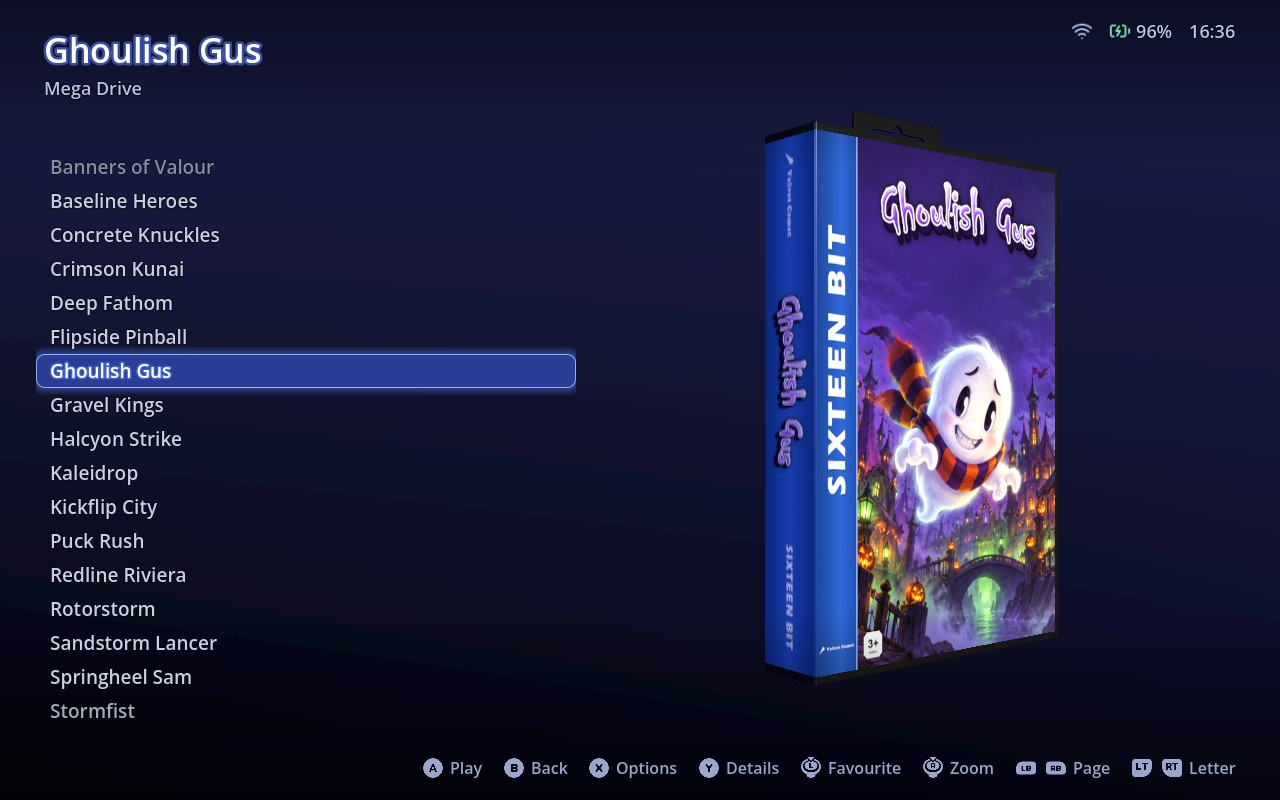
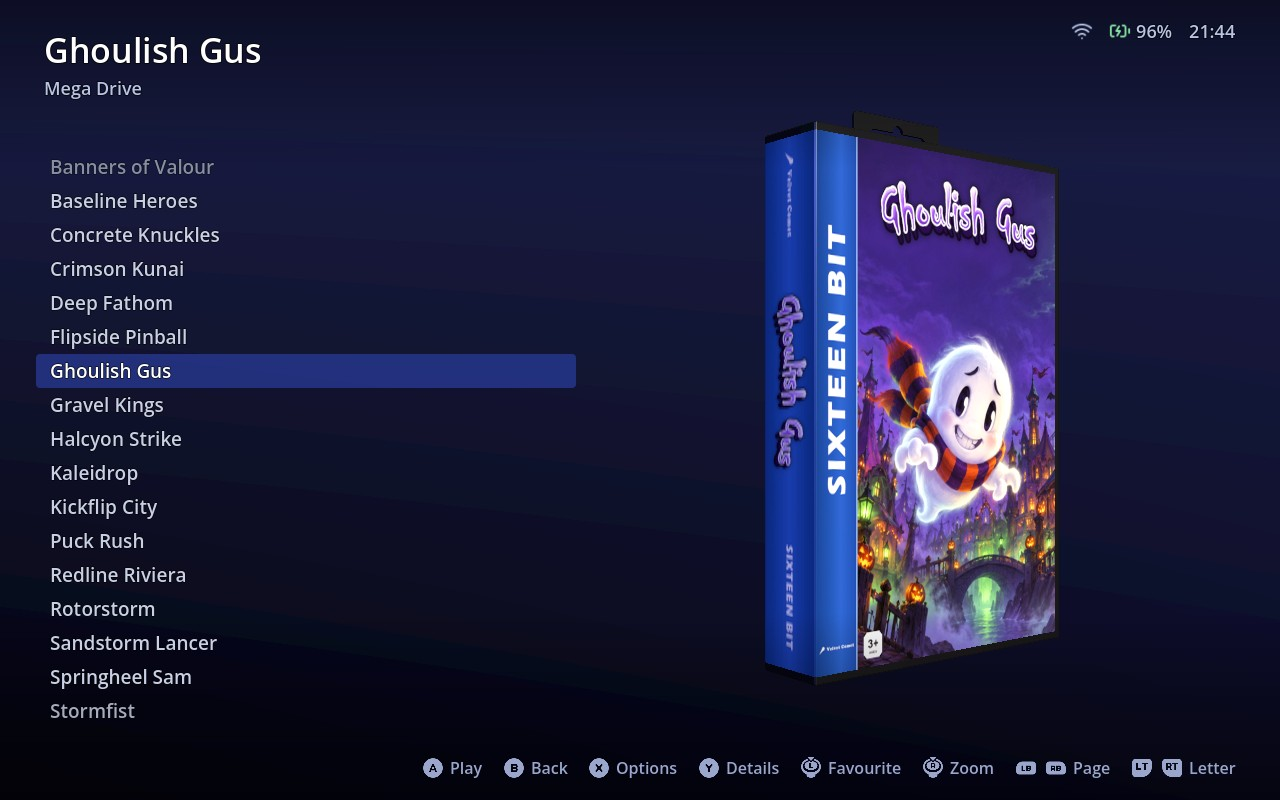
Menus without outlines, glows or capitals
The focused row is a flat fill with white text; panels have no border or
shadow; titles have no glow; section headings are in sentence case in the
dim colour. Over the grids, the heading and the centre message have a dark
shadow, the list layout's highlight is a flat fill and the showcase's
screenshot frame has no border. Colours are unchanged. README captures
recorded again.

Changed region(s): [[0.0312, 0.4375, 0.4688, 0.5], [0.0312, 0.0312, 0.2188, 0.0938], [0.9375, 0.0312, 0.9688, 0.0625]]

diff --git a/godot/src/Ui/UiStyle.cs b/godot/src/Ui/UiStyle.cs
@@ -9,9 +9,9 @@ using Theme = Godot.Theme;
 namespace Launcher.App.Ui;
 
 /// <summary>
-/// The menus' look (M7), built in code: translucent panels over the dimmed grid, rows that light up with a soft glow
-/// when focused, as the PS2 browser's text does. Sizes are at the project's base resolution (1280×800), which the
-/// canvas stretches, so they're native at 4K.
+/// The menus' look (M7), built in code: translucent panels over the dimmed grid, and a flat fill behind the focused row.
+/// No outlines, glows or capitals (decisions log, 2026-11-10: they read as a stock template). Sizes are at the
+/// project's base resolution (1280×800), which the canvas stretches, so they're native at 4K.
 /// <para>
 /// The colours and the font are the active theme's (A6 Menus, <see cref="MenuPalette"/>): the launcher's own deep blue
 /// unless the theme sets its own. <see cref="Apply"/> switches them in place: the shared style boxes and label settings
@@ -65,11 +65,8 @@ public static class UiStyle
     /// <summary>Notes, placeholders and what's off.</summary>
     public static Color Faint => Colour(MenuRole.Faint);
 
-    /// <summary>The focus's border, section headings and values.</summary>
+    /// <summary>Values and row actions ("Change", "Open"), and a text field's caret.</summary>
     public static Color Accent => Colour(MenuRole.Accent);
-
-    /// <summary>The glow around a heading.</summary>
-    public static Color Glow => Colour(MenuRole.Glow);
 
     public static Color PanelColour => Colour(MenuRole.Panel);
 
@@ -86,7 +83,7 @@ public static class UiStyle
         _ => 1,
     };
 
-    public static LabelSettings Title { get; } = Keep(new LabelSettings { FontSize = TitleSize, FontColor = Text, ShadowColor = Glow, ShadowSize = 10, ShadowOffset = Vector2.Zero });
+    public static LabelSettings Title { get; } = Keep(new LabelSettings { FontSize = TitleSize, FontColor = Text });
 
     public static LabelSettings Subtitle { get; } = Keep(new LabelSettings { FontSize = DetailSize, FontColor = Dim });
 
@@ -96,13 +93,13 @@ public static class UiStyle
 
     public static LabelSettings Detail { get; } = Keep(new LabelSettings { FontSize = DetailSize, FontColor = Dim });
 
-    public static LabelSettings Section { get; } = Keep(new LabelSettings { FontSize = HintSize, FontColor = Accent });
+    public static LabelSettings Section { get; } = Keep(new LabelSettings { FontSize = DetailSize, FontColor = Dim });
 
-    public static StyleBoxFlat Focused { get; } = Keep(RowBox(Colour(MenuRole.RowFocus), Accent, 2, 10));
+    public static StyleBoxFlat Focused { get; } = Keep(RowBox(Colour(MenuRole.RowFocus)));
 
     public static StyleBoxFlat Hovered { get; } = Keep(RowBox(Colour(MenuRole.RowHover)));
 
-    public static StyleBoxFlat Plain { get; } = Keep(RowBox(Colour(MenuRole.RowPlain)));
+    public static StyleBoxFlat Plain { get; } = Keep(RowBox(Colors.Transparent));
 
     /// <summary>One colour of the palette in use.</summary>
     public static Color Colour(MenuRole role) => _colours[(int)role];
@@ -111,28 +108,22 @@ public static class UiStyle
     public static Color Colour(Rgba colour) => new(colour.R, colour.G, colour.B, colour.A);
 
     /// <summary>A panel's frame: a new box each time, so its caller can change its margins.</summary>
-    public static StyleBoxFlat PanelBox(float radius = 16) => new()
+    public static StyleBoxFlat PanelBox(float radius = 6) => new()
     {
         BgColor = PanelColour,
-        BorderColor = Colour(MenuRole.PanelBorder),
-        BorderWidthLeft = 1,
-        BorderWidthRight = 1,
-        BorderWidthTop = 1,
-        BorderWidthBottom = 1,
         CornerRadiusTopLeft = (int)radius,
         CornerRadiusTopRight = (int)radius,
         CornerRadiusBottomLeft = (int)radius,
         CornerRadiusBottomRight = (int)radius,
         ShadowColor = Colour(MenuRole.PanelShadow),
-        ShadowSize = 24,
         ContentMarginLeft = 28,
         ContentMarginRight = 28,
         ContentMarginTop = 22,
         ContentMarginBottom = 18,
     };
 
-    /// <summary>A row's box in one state: transparent, hovered, focused (glowing) or pressed.</summary>
-    public static StyleBoxFlat RowBox(Color background, Color border = default, int borderWidth = 0, int glow = 0) => new()
+    /// <summary>A row's box in one state: transparent, hovered, focused or pressed. Only a text field has a border.</summary>
+    public static StyleBoxFlat RowBox(Color background, Color border = default, int borderWidth = 0) => new()
     {
         BgColor = background,
         BorderColor = border,
@@ -140,12 +131,10 @@ public static class UiStyle
         BorderWidthRight = borderWidth,
         BorderWidthTop = borderWidth,
         BorderWidthBottom = borderWidth,
-        CornerRadiusTopLeft = 8,
-        CornerRadiusTopRight = 8,
-        CornerRadiusBottomLeft = 8,
-        CornerRadiusBottomRight = 8,
-        ShadowColor = glow > 0 ? Colour(MenuRole.FocusGlow) : Colors.Transparent,
-        ShadowSize = glow,
+        CornerRadiusTopLeft = 4,
+        CornerRadiusTopRight = 4,
+        CornerRadiusBottomLeft = 4,
+        CornerRadiusBottomRight = 4,
         ContentMarginLeft = 16,
         ContentMarginRight = 16,
         ContentMarginTop = 8,
@@ -153,7 +142,7 @@ public static class UiStyle
     };
 
     /// <summary>A frame around a picture (a thumbnail, a cover): a new box each time.</summary>
-    public static StyleBoxFlat FrameBox() => RowBox(Colour(MenuRole.Frame), Colour(MenuRole.FrameBorder), 1);
+    public static StyleBoxFlat FrameBox() => RowBox(Colour(MenuRole.Frame));
 
     /// <summary>
     /// Keeps <paramref name="resource"/> (a <see cref="LabelSettings"/> or <see cref="StyleBoxFlat"/> made from this
@@ -266,7 +255,7 @@ public static class UiStyle
             {
                 theme.SetStylebox("normal", type, Plain);
                 theme.SetStylebox("hover", type, Hovered);
-                var pressed = Keep(RowBox(Colour(MenuRole.RowPressed), Accent, 2, 6));
+                var pressed = Keep(RowBox(Colour(MenuRole.RowPressed)));
                 theme.SetStylebox("pressed", type, pressed);
                 theme.SetStylebox("hover_pressed", type, pressed);
                 theme.SetStylebox("disabled", type, Keep(RowBox(Colour(MenuRole.RowDisabled))));
@@ -294,7 +283,7 @@ public static class UiStyle
 
         var track = Keep(RowBox(Colour(MenuRole.Track)));
         track.ContentMarginTop = track.ContentMarginBottom = 0;
-        var fill = Keep(RowBox(Colour(MenuRole.Fill), default, 0, 6));
+        var fill = Keep(RowBox(Colour(MenuRole.Fill)));
         fill.ContentMarginTop = fill.ContentMarginBottom = 0;
         theme.SetStylebox("background", "ProgressBar", track);
         theme.SetStylebox("fill", "ProgressBar", fill);

diff --git a/godot/src/Screens/InfoOverlay.cs b/godot/src/Screens/InfoOverlay.cs
@@ -10,11 +10,11 @@ namespace Launcher.App.Screens;
 public sealed record OverlayDetails(long Key, bool Favourite);
 
 /// <summary>
-/// The PS2-style text over the grid: the focused item's title top left with a soft glow, what it belongs to under
-/// it, "Favourite" top right on a favourite game, and the controls bottom right. A system's and a game's details are on
-/// their details screens (Y: <see cref="SystemDetailsPanel"/>, <see cref="GameDetailsPanel"/>). 2D, at the project's
-/// base size (1280×800) and stretched, so it's native resolution at 4K. Its colours are the theme's (<see
-/// cref="OverlayPalette"/>, from <c>[ui.menu]</c>): the launcher's own blue unless the theme sets menu colours.
+/// The PS2-style text over the grid: the focused item's title top left, what it belongs to under it, "Favourite" top
+/// right on a favourite game, and the controls bottom right. A system's and a game's details are on their details
+/// screens (Y: <see cref="SystemDetailsPanel"/>, <see cref="GameDetailsPanel"/>). 2D, at the project's base size
+/// (1280×800) and stretched, so it's native resolution at 4K. Its colours are the theme's (<see cref="OverlayPalette"/>,
+/// from <c>[ui.menu]</c>): the launcher's own blue unless the theme sets menu colours.
 /// </summary>
 public sealed partial class InfoOverlay : CanvasLayer
 {
@@ -158,7 +158,7 @@ public sealed partial class InfoOverlay : CanvasLayer
 
         _title = new Label
         {
-            LabelSettings = new LabelSettings { FontSize = 34, FontColor = Colors.White, ShadowSize = 10, ShadowOffset = Vector2.Zero },
+            LabelSettings = new LabelSettings { FontSize = 34, FontColor = Colors.White, ShadowColor = new Color(0, 0, 0, 0.6f), ShadowSize = 4, ShadowOffset = Vector2.Zero },
             AutowrapMode = TextServer.AutowrapMode.WordSmart,
             MaxLinesVisible = 2,
             TextOverrunBehavior = TextServer.OverrunBehavior.TrimEllipsis,
@@ -191,7 +191,7 @@ public sealed partial class InfoOverlay : CanvasLayer
         _hints.OffsetTop = -48;
         _hints.OffsetBottom = -16;
 
-        _status = AddLabel(new LabelSettings { FontSize = 20, FontColor = Colors.White, ShadowSize = 8, ShadowOffset = Vector2.Zero });
+        _status = AddLabel(new LabelSettings { FontSize = 20, FontColor = Colors.White, ShadowColor = new Color(0, 0, 0, 0.6f), ShadowSize = 4, ShadowOffset = Vector2.Zero });
         _status.SetAnchorsAndOffsetsPreset(Control.LayoutPreset.Center);
         _status.OffsetLeft = -400;
         _status.OffsetRight = 400;
@@ -288,11 +288,8 @@ public sealed partial class InfoOverlay : CanvasLayer
 
     private void Paint()
     {
-        var glow = UiStyle.Colour(_palette.Glow);
-        _title.LabelSettings.ShadowColor = glow;
         _subtitle.LabelSettings.FontColor = UiStyle.Colour(_palette.Subtitle);
         _hints.Settings.FontColor = UiStyle.Colour(_palette.Hint);
-        _status.LabelSettings.ShadowColor = glow;
         List.Use(_palette);
         Showcase.Use(_palette);
         SystemLabels.Use(_palette);

diff --git a/godot/src/Screens/ShowcasePanel.cs b/godot/src/Screens/ShowcasePanel.cs
@@ -58,7 +58,6 @@ public sealed partial class ShowcasePanel : Control
     private readonly GridContainer _facts;
     private readonly Label[] _factLabels = new Label[MaxFields];
     private readonly Label[] _factValues = new Label[MaxFields];
-    private readonly LabelSettings _nameStyle;
     private readonly LabelSettings _factLabelStyle;
     private readonly AspectRatioContainer _screen;
     private readonly TextureRect _screenshot;
@@ -100,10 +99,10 @@ public sealed partial class ShowcasePanel : Control
 
         var head = new Control { CustomMinimumSize = new Vector2(0, HeadHeight), MouseFilter = MouseFilterEnum.Ignore };
         _column.AddChild(head);
-        _nameStyle = new LabelSettings { FontSize = 38, FontColor = Colors.White, ShadowSize = 10, ShadowOffset = Vector2.Zero };
+        var nameStyle = new LabelSettings { FontSize = 38, FontColor = Colors.White, ShadowColor = new Color(0, 0, 0, 0.6f), ShadowSize = 4, ShadowOffset = Vector2.Zero };
         _name = new Label
         {
-            LabelSettings = _nameStyle,
+            LabelSettings = nameStyle,
             AutowrapMode = TextServer.AutowrapMode.WordSmart,
             MaxLinesVisible = 2,
             TextOverrunBehavior = TextServer.OverrunBehavior.TrimEllipsis,
@@ -173,9 +172,8 @@ public sealed partial class ShowcasePanel : Control
         _screen.OffsetTop = Top;
         Backdrop.AddChild(_screen);
         var frame = new PanelContainer { MouseFilter = MouseFilterEnum.Ignore };
-        var box = new StyleBoxFlat { BgColor = new Color("#0B0F1C"), BorderColor = new Color(0.6f, 0.68f, 0.95f, 0.28f), ShadowColor = new Color(0, 0, 0, 0.6f), ShadowSize = 18 };
-        box.SetBorderWidthAll(1);
-        box.SetCornerRadiusAll(6);
+        var box = new StyleBoxFlat { BgColor = new Color("#0B0F1C"), ShadowColor = new Color(0, 0, 0, 0.6f), ShadowSize = 18 };
+        box.SetCornerRadiusAll(4);
         box.SetContentMarginAll(7);
         frame.AddThemeStyleboxOverride("panel", box);
         _screen.AddChild(frame);
@@ -196,7 +194,6 @@ public sealed partial class ShowcasePanel : Control
     /// <summary>Main thread: the panel takes the theme's colours (A6 Menus).</summary>
     public void Use(OverlayPalette palette)
     {
-        _nameStyle.ShadowColor = UiStyle.Colour(palette.Glow);
         _factLabelStyle.FontColor = UiStyle.Colour(palette.Subtitle);
     }
 

diff --git a/godot/src/Screens/SystemDetailsPanel.cs b/godot/src/Screens/SystemDetailsPanel.cs
@@ -46,9 +46,9 @@ public sealed partial class SystemDetailsPanel : UiPanel
 
         // The card's model, in the system's look, as it stands in the grid when focused.
         var frame = new PanelContainer { CustomMinimumSize = new Vector2(ModelWidth, 0), MouseFilter = MouseFilterEnum.Ignore };
-        var border = UiStyle.RowBox(new Color(0, 0, 0, 0), UiStyle.Colour(MenuRole.FrameBorder), 1);
-        border.ContentMarginLeft = border.ContentMarginRight = border.ContentMarginTop = border.ContentMarginBottom = 1;
-        frame.AddThemeStyleboxOverride("panel", border);
+        var area = UiStyle.FrameBox();
+        area.ContentMarginLeft = area.ContentMarginRight = area.ContentMarginTop = area.ContentMarginBottom = 0;
+        frame.AddThemeStyleboxOverride("panel", area);
         row.AddChild(frame);
         var templates = theme.CardTemplates;
         _model = ModelView.Show(
@@ -198,7 +198,7 @@ public sealed partial class SystemDetailsPanel : UiPanel
 
     private static Label Section(string text)
     {
-        var label = UiStyle.Label(text.ToUpperInvariant(), UiStyle.Section);
+        var label = UiStyle.Label(text, UiStyle.Section);
         label.CustomMinimumSize = new Vector2(0, 26);
         label.VerticalAlignment = VerticalAlignment.Bottom;
         return label;
@@ -206,7 +206,8 @@ public sealed partial class SystemDetailsPanel : UiPanel
 
     private static StyleBoxFlat InfoBox(bool focused)
     {
-        var box = UiStyle.RowBox(UiStyle.Colour(focused ? MenuRole.CardFocused : MenuRole.CardPlain), focused ? UiStyle.Accent : default, focused ? 2 : 0, focused ? 8 : 0);
+        // A row's focus fill would make the whole block a slab of colour: a lighter one is enough for something this big.
+        var box = UiStyle.RowBox(UiStyle.Colour(focused ? MenuRole.RowHover : MenuRole.CardPlain));
         box.ContentMarginLeft = box.ContentMarginRight = 18;
         box.ContentMarginTop = box.ContentMarginBottom = 12;
         return box;

diff --git a/godot/src/Screens/TitleList.cs b/godot/src/Screens/TitleList.cs
@@ -45,16 +45,15 @@ public sealed partial class TitleList : Control
         OffsetBottom = -64;
 
         // The colours are the theme's, set by Use: the launcher's own until then.
-        _box = new StyleBoxFlat { ShadowSize = 8 };
-        _box.SetBorderWidthAll(1);
-        _box.SetCornerRadiusAll(8);
+        _box = new StyleBoxFlat();
+        _box.SetCornerRadiusAll(4);
         _highlight = new Panel { MouseFilter = MouseFilterEnum.Ignore, Size = new Vector2(540, RowHeight) };
         _highlight.AddThemeStyleboxOverride("panel", _box);
         AddChild(_highlight);
 
         var shadow = new Color(0, 0, 0, 0.7f);
         _plain = new LabelSettings { FontSize = 19, ShadowColor = shadow, ShadowSize = 3, ShadowOffset = Vector2.Zero };
-        _focused = new LabelSettings { FontSize = 19, FontColor = Colors.White, ShadowSize = 6, ShadowOffset = Vector2.Zero };
+        _focused = new LabelSettings { FontSize = 19, FontColor = Colors.White, ShadowColor = shadow, ShadowSize = 3, ShadowOffset = Vector2.Zero };
         _systemStyle = new LabelSettings { FontSize = 14, ShadowColor = shadow, ShadowSize = 3, ShadowOffset = Vector2.Zero };
         Use(OverlayPalette.Legacy);
 
@@ -96,10 +95,7 @@ public sealed partial class TitleList : Control
     public void Use(OverlayPalette palette)
     {
         _box.BgColor = UiStyle.Colour(palette.ListFocusBox);
-        _box.BorderColor = UiStyle.Colour(palette.ListFocusBorder);
-        _box.ShadowColor = UiStyle.Colour(palette.ListFocusShadow);
         _plain.FontColor = UiStyle.Colour(palette.ListPlain);
-        _focused.ShadowColor = UiStyle.Colour(palette.Glow);
         _systemStyle.FontColor = UiStyle.Colour(palette.ListSystem);
     }
 

diff --git a/godot/src/Ui/VirtualList.cs b/godot/src/Ui/VirtualList.cs
@@ -31,10 +31,10 @@ public sealed partial class VirtualList : Control
 {
     public const float RowHeight = 40;
 
-    // The focused button's colours without its glow or vertical padding: a row's box must fit inside the row, or it
-    // spills over the rows above and below.
-    private static readonly StyleBoxFlat Selected = UiStyle.Keep(RowBox(UiStyle.Colour(MenuRole.RowFocus), UiStyle.Accent, 2));
-    private static readonly StyleBoxFlat SelectedUnfocused = UiStyle.Keep(RowBox(UiStyle.Colour(MenuRole.SelectedUnfocused), UiStyle.Colour(MenuRole.FieldBorder), 1));
+    // The focused button's colours without its vertical padding: a row's box must fit inside the row, or it spills over
+    // the rows above and below.
+    private static readonly StyleBoxFlat Selected = UiStyle.Keep(RowBox(UiStyle.Colour(MenuRole.RowFocus)));
+    private static readonly StyleBoxFlat SelectedUnfocused = UiStyle.Keep(RowBox(UiStyle.Colour(MenuRole.SelectedUnfocused)));
     private static readonly StyleBoxFlat Empty = RowBox(Colors.Transparent);
     private static readonly StringName PanelStyle = "panel";
 
@@ -223,9 +223,9 @@ public sealed partial class VirtualList : Control
         }
     }
 
-    private static StyleBoxFlat RowBox(Color background, Color border = default, int borderWidth = 0)
+    private static StyleBoxFlat RowBox(Color background)
     {
-        var box = UiStyle.RowBox(background, border, borderWidth);
+        var box = UiStyle.RowBox(background);
         box.ContentMarginTop = box.ContentMarginBottom = 0;
         return box;
     }

diff --git a/godot/src/Screens/GameDetailsPanel.cs b/godot/src/Screens/GameDetailsPanel.cs
@@ -258,7 +258,7 @@ public sealed partial class GameDetailsPanel : UiPanel
 
     private static Label Section(string text)
     {
-        var label = UiStyle.Label(text.ToUpperInvariant(), UiStyle.Section);
+        var label = UiStyle.Label(text, UiStyle.Section);
         label.CustomMinimumSize = new Vector2(0, 26);
         label.VerticalAlignment = VerticalAlignment.Bottom;
         return label;
@@ -266,7 +266,8 @@ public sealed partial class GameDetailsPanel : UiPanel
 
     private static StyleBoxFlat InfoBox(bool focused)
     {
-        var box = UiStyle.RowBox(UiStyle.Colour(focused ? MenuRole.CardFocused : MenuRole.CardPlain), focused ? UiStyle.Accent : default, focused ? 2 : 0, focused ? 8 : 0);
+        // A row's focus fill would make the whole block a slab of colour: a lighter one is enough for something this big.
+        var box = UiStyle.RowBox(UiStyle.Colour(focused ? MenuRole.RowHover : MenuRole.CardPlain));
         box.ContentMarginLeft = box.ContentMarginRight = 18;
         box.ContentMarginTop = box.ContentMarginBottom = 12;
         return box;

diff --git a/godot/src/Screens/ManualViewer.cs b/godot/src/Screens/ManualViewer.cs
@@ -86,7 +86,7 @@ public sealed partial class ManualViewer : UiPanel
         var line = new HBoxContainer { MouseFilter = MouseFilterEnum.Ignore };
         line.AddThemeConstantOverride("separation", 16);
         bar.AddChild(line);
-        line.AddChild(UiStyle.Label(name, new LabelSettings { FontSize = UiStyle.RowSize, FontColor = UiStyle.Text, ShadowColor = UiStyle.Glow, ShadowSize = 6, ShadowOffset = Vector2.Zero }));
+        line.AddChild(UiStyle.Label(name, new LabelSettings { FontSize = UiStyle.RowSize, FontColor = UiStyle.Text }));
         _place = UiStyle.Label(string.Empty, UiStyle.Detail);
         _place.SizeFlagsHorizontal = SizeFlags.ExpandFill;
         _place.VerticalAlignment = VerticalAlignment.Center;

diff --git a/godot/src/Screens/MediaViewer.cs b/godot/src/Screens/MediaViewer.cs
@@ -92,7 +92,7 @@ public sealed partial class MediaViewer : UiPanel
         var line = new HBoxContainer { MouseFilter = MouseFilterEnum.Ignore };
         line.AddThemeConstantOverride("separation", 16);
         lines.AddChild(line);
-        _name = UiStyle.Label(string.Empty, new LabelSettings { FontSize = UiStyle.RowSize, FontColor = UiStyle.Text, ShadowColor = UiStyle.Glow, ShadowSize = 6, ShadowOffset = Vector2.Zero });
+        _name = UiStyle.Label(string.Empty, new LabelSettings { FontSize = UiStyle.RowSize, FontColor = UiStyle.Text });
         line.AddChild(_name);
         _place = UiStyle.Label(string.Empty, UiStyle.Detail);
         _place.SizeFlagsHorizontal = SizeFlags.ExpandFill;

diff --git a/godot/src/Options/GameArtPanel.cs b/godot/src/Options/GameArtPanel.cs
@@ -82,7 +82,7 @@ public sealed partial class GameArtPanel : UiPanel
         var margins = new MarginContainer { SizeFlagsHorizontal = SizeFlags.ExpandFill, MouseFilter = MouseFilterEnum.Ignore };
         foreach (var side in (ReadOnlySpan<string>)["margin_left", "margin_right", "margin_top", "margin_bottom"])
         {
-            // Room for the focused tile's glow.
+            // Room around the tiles, clear of the scroll's edges.
             margins.AddThemeConstantOverride(side, 10);
         }
 

diff --git a/godot/src/Ui/JobsHud.cs b/godot/src/Ui/JobsHud.cs
@@ -53,7 +53,7 @@ public sealed partial class JobsHud : CanvasLayer
     private static PanelContainer Card(BackgroundJob job)
     {
         var card = new PanelContainer { MouseFilter = Control.MouseFilterEnum.Ignore, CustomMinimumSize = new Vector2(Width, 0) };
-        var box = UiStyle.PanelBox(10);
+        var box = UiStyle.PanelBox(4);
         box.ContentMarginLeft = box.ContentMarginRight = 16;
         box.ContentMarginTop = box.ContentMarginBottom = 10;
         box.ShadowSize = 10;

diff --git a/godot/src/Ui/ListPanel.cs b/godot/src/Ui/ListPanel.cs
@@ -156,7 +156,7 @@ public abstract partial class ListPanel : UiPanel
 
     protected Label AddSection(string text)
     {
-        var label = UiStyle.Label(text.ToUpperInvariant(), UiStyle.Section);
+        var label = UiStyle.Label(text, UiStyle.Section);
         label.CustomMinimumSize = new Vector2(0, 30);
         label.VerticalAlignment = VerticalAlignment.Bottom;
         Rows.AddChild(label);
